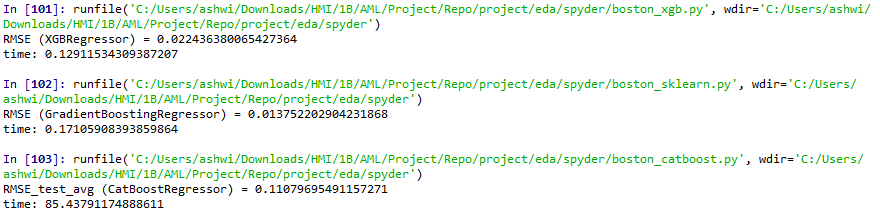
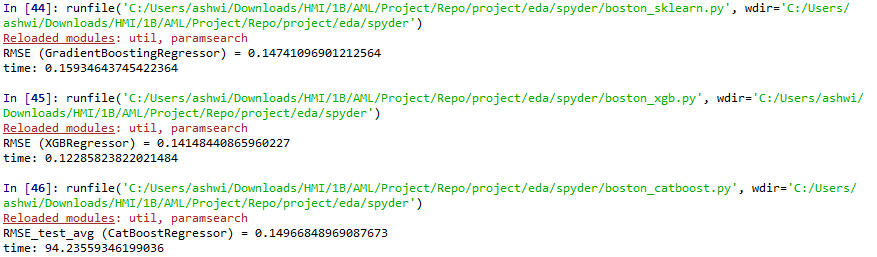
tuning code complete for xgb and sklearn. catboost in progress.

Changed region(s): [[0.0, 0.0, 1.0, 0.3041], [0.0, 0.6912, 0.9852, 0.9954], [0.0, 0.3594, 0.9852, 0.6359]]

diff --git a/project/eda/spyder/boston_sklearn.py b/project/eda/spyder/boston_sklearn.py
@@ -9,12 +9,15 @@ import numpy as np
 import pandas as pd
 import time
 
-from sklearn.model_selection import cross_val_score, train_test_split
+from sklearn.model_selection import cross_val_score, train_test_split, GridSearchCV
 from mlxtend.preprocessing import DenseTransformer
 from sklearn.pipeline import Pipeline
 from sklearn.ensemble import GradientBoostingRegressor
 from sklearn.preprocessing import Imputer
-
+from sklearn import metrics
+import util
+import paramsearch
+from util import plot_top_features
 
 
 train = pd.read_csv('../data/Boston/boston-train.csv', index_col = 'ID', delimiter = ',')
@@ -22,7 +25,9 @@ test = pd.read_csv('../data/Boston/boston-test.csv', index_col = 'ID', delimiter
 
 y_price = np.log1p(train.medv)
 
-df_train, df_test, y_train, y_test = train_test_split(train, y_price, test_size = 0.2, shuffle = True)
+dtrain = train.drop(['medv'], axis = 1)
+
+df_train, df_test, y_train, y_test = train_test_split(dtrain, y_price, test_size = 0.2, shuffle = True)
 
 def defaultWithCatVars(df_train, df_test, y_train, y_test):
 
@@ -64,5 +69,53 @@ def defaultWithCatVars(df_train, df_test, y_train, y_test):
     
     
 
-defaultWithCatVars(df_train, df_test, y_train, y_test)
+### TUNING:
+
+# =============================================================================
+# 
+# def modelfit(alg, dtrain, y_price, predictors, performCV=True, printFeatureImp=True, cv_folds=5):
+#     #Fitting the algorithm on the data
+#     alg.fit(dtrain[predictors], y_price)
+#     
+#     #Predict training set:
+#     dtrain_predictions = alg.predict(dtrain[predictors])
+#     
+#     #Cross Validation
+#     if performCV:
+#         cv_score = cross_val_score(sk_boost_clf, dtrain[predictors], y_price, cv=cv_folds, scoring='neg_mean_squared_error')
+# 
+#     #Report
+#     print ("\nReport")
+#     
+#     
+# =============================================================================
+
+
+
+def tuned(df_train, df_test, y_train, y_test, n_folds=5):
+    grid_params = {
+        'clf__max_depth': [1, 2, 3],
+        'clf__learning_rate': [0.1, 0.05, 0.01],
+        'clf__n_estimators' : [100, 500, 1000]
+    }
+    
+    sk_boost_clf = Pipeline([('replace_nan', Imputer()), ('to_dense', DenseTransformer()), ('clf', GradientBoostingRegressor())])
+    sk_boost_clf.fit(df_train, y_train)
+    
+    plot_top_features(sk_boost_clf.named_steps['clf'], df_train.columns.values, 20)
+    
+    grid_search_sk = GridSearchCV(sk_boost_clf, grid_params, scoring='neg_mean_squared_error', cv=n_folds, verbose=True)
+    grid_search_sk.fit(df_train, y_train)
+    
+    best_parameters_sk = max(grid_search_sk.grid_scores_, key=lambda x: x[1])[0]
+    
+    print (best_parameters_sk)
+
+
+
+
+#### Method Calls:
+
+#defaultWithCatVars(df_train, df_test, y_train, y_test)
 #defaultWithoutCatVars(df_train, df_test, y_train, y_test)
+tuned(df_train, df_test, y_train, y_test)

diff --git a/project/eda/spyder/boston_xgb.py b/project/eda/spyder/boston_xgb.py
@@ -10,9 +10,12 @@ import numpy as np
 import pandas as pd
 import time
 
-from sklearn.model_selection import cross_val_score, train_test_split
+from sklearn.model_selection import cross_val_score, train_test_split, GridSearchCV
 from mlxtend.preprocessing import DenseTransformer
 from sklearn.pipeline import Pipeline
+import util
+import paramsearch
+from util import plot_top_features
 
 
 
@@ -33,11 +36,11 @@ test = pd.read_csv('../data/Boston/boston-test.csv', index_col = 'ID', delimiter
 
 y_price = np.log1p(train.medv)
 
-df_train, df_test, y_train, y_test = train_test_split(train, y_price, test_size = 0.2, shuffle = True)
+dtrain = train.drop(['medv'], axis = 1)
+
+df_train, df_test, y_train, y_test = train_test_split(dtrain, y_price, test_size = 0.2, shuffle = True)
 
 def defaultWithCatVars(df_train, df_test, y_train, y_test):
-
-    dtrain = pd.get_dummies(df_train, columns= ['chas'])
 
     xgboost_clf = Pipeline([('to_dense', DenseTransformer()), ('clf', xgb.XGBRegressor(eval_metric = 'rmse'))])
 
@@ -75,6 +78,29 @@ def defaultWithCatVars(df_train, df_test, y_train, y_test):
 # =============================================================================
     
 
-defaultWithCatVars(df_train, df_test, y_train, y_test)
-#defaultWithoutCatVars(df_train, df_test, y_train, y_test)
 
+def tuned(df_train, df_test, y_train, y_test, n_folds=5):
+    grid_params = {
+        'clf__max_depth': [1, 2, 3],
+        'clf__learning_rate': [0.1, 0.05, 0.01],
+        'clf__n_estimators' : [100, 500, 1000]
+    }
+    
+    xgboost_clf = Pipeline([('to_dense', DenseTransformer()), ('clf', xgb.XGBRegressor(eval_metric = 'rmse'))])
+    xgboost_clf.fit(df_train, y_train)
+    
+    plot_top_features(xgboost_clf.named_steps['clf'], df_train.columns.values, 20)
+    
+    grid_search_xgb = GridSearchCV(xgboost_clf, grid_params, scoring='neg_mean_squared_error', cv=n_folds, verbose=True)
+    grid_search_xgb.fit(df_train, y_train)
+    
+    best_parameters_xgb = max(grid_search_xgb.grid_scores_, key=lambda x: x[1])[0]
+    
+    print (best_parameters_xgb)
+
+
+#### Method Calls:
+
+#defaultWithCatVars(df_train, df_test, y_train, y_test)
+#defaultWithoutCatVars(df_train, df_test, y_train, y_test)
+tuned(df_train, df_test, y_train, y_test)

diff --git a/project/eda/spyder/boston_catboost.py b/project/eda/spyder/boston_catboost.py
@@ -18,10 +18,16 @@ from matplotlib.backends.backend_pdf import PdfPages
 from matplotlib.pylab import rcParams
 from sklearn.metrics import mean_squared_error
 from sklearn.model_selection import cross_val_score, train_test_split
+import util
+import paramsearch
+from util import plot_top_features
+from util import plot_top_features, catboost_param_tune
 
 
 train = pd.read_csv('../data/Boston/boston-train.csv', index_col = 'ID', delimiter = ',')
 df_test = pd.read_csv('../data/Boston/boston-test.csv', index_col = 'ID', delimiter = ',')
+
+dtrain = train.drop(['medv'], axis=1)
 
 y_price = np.log1p(train.medv)
 
@@ -33,7 +39,7 @@ y_price = np.log1p(train.medv)
 # =============================================================================
 
 
-df_train, df_val, y_train, y_val = train_test_split(train, y_price, test_size=0.2)
+df_train, df_val, y_train, y_val = train_test_split(dtrain, y_price, test_size=0.2)
 
 # =============================================================================
 # def defaultWithoutCatVars(df_train, df_val, y_train, y_val, df_test):
@@ -103,7 +109,29 @@ def defaultWithCatVars(df_train, df_val, y_train, y_val, df_test):
     #print ("time: "+ str(end - start))
     print ("time: "+ str(time_sum/5))   
 
+
+#Tuned:
+    
+def tuned(df_train, y_train):
+    train_pool = Pool(df_train, label = y_train, cat_features=[3])
+    model = CatBoostRegressor(loss_function = 'RMSE', custom_metric = 'RMSE',  calc_feature_importance = True)
+    cv_params = model.get_params()
+    del cv_params['calc_feature_importance']
+    
+    model.fit(train_pool, logging_level='Silent')
+    plot_top_features(model, train_pool.get_feature_names(), 20)
+    
+    cat_grid_params = {
+    'depth': [1, 2, 3],
+    'learning_rate': [0.1, 0.05, 0.01],
+    'iterations' : [100, 500, 1000]
+    }
+    best_params = catboost_param_tune(cat_grid_params, df_train, y_train, [3], 5)
+
+
+#Method Calls:
+
 defaultWithCatVars(df_train, df_val, y_train, y_val, df_test)
 #defaultWithoutCatVars(df_train, df_val, y_train, y_val, df_test)
-#TUNED
+
 
